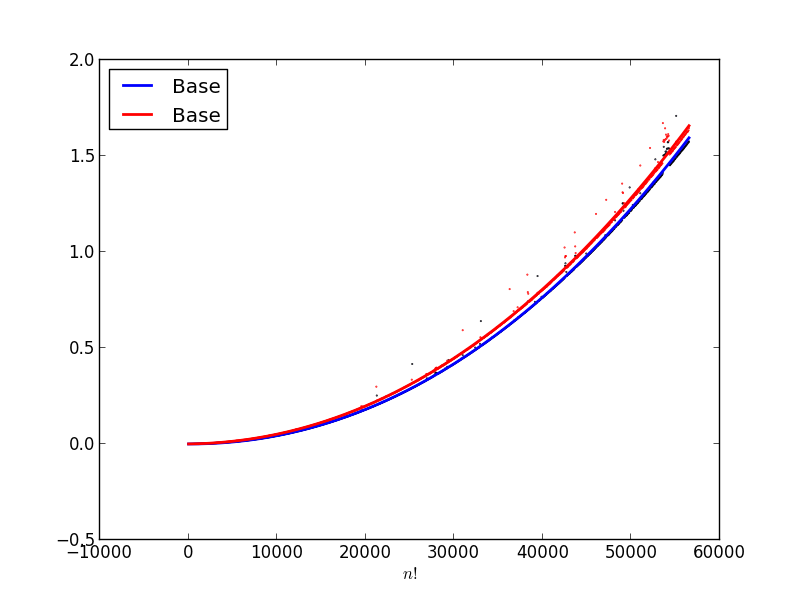
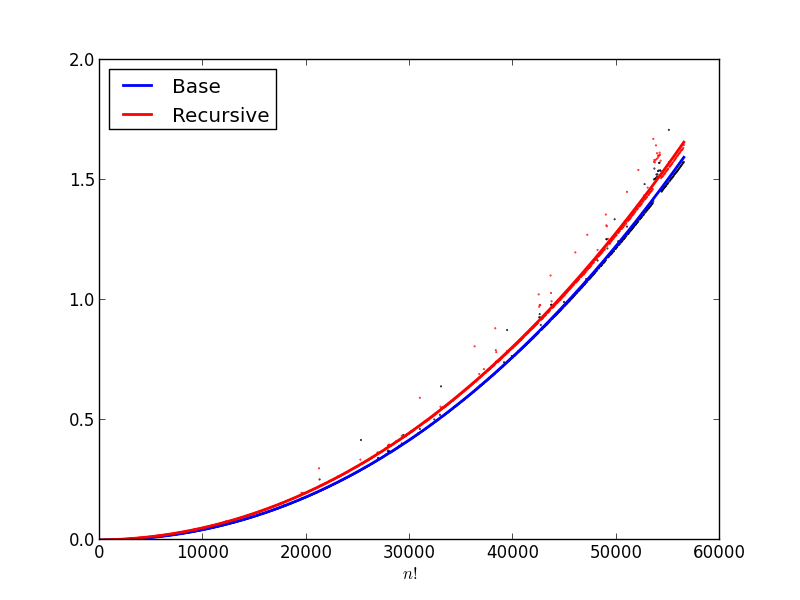
Basic analysis script written

diff --git a/Analyse_factorial.py b/Analyse_factorial.py
@@ -36,4 +36,7 @@ plt.scatter(x, y2, color="red", s=.2)
 plt.plot(x, y2new, color="red", label="Recursive", linewidth=2)
 plt.legend(loc=2)
 plt.xlabel("$n!$")
+plt.ylabel("time (seconds)")
+plt.ylim(0, plt.ylim()[1])
+plt.xlim(0, plt.xlim()[1])
 plt.savefig("factorial.png")
